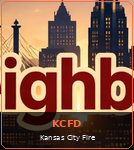
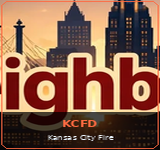
Add files via upload

diff --git a/app/page.tsx b/app/page.tsx
@@ -541,10 +541,10 @@ const scopedPosts = scope==='local'
           </button>
         </div>
         <div className="nkc-mobile-account-row" aria-label="Account controls" style={{backgroundColor:theme.header,borderColor:theme.border}}>
-          <a href="/dms" aria-label="Messages" className="nkc-mobile-account-btn">💬 <span>Messages</span></a>
-          <a href="/notifications" aria-label="Notifications" className="nkc-mobile-account-btn">🔔 <span>Alerts</span></a>
-          <button type="button" onClick={()=>setShowSettings(true)} aria-label="Themes and settings" className="nkc-mobile-account-btn">⚙ <span>Themes</span></button>
-          {!authReady ? <span className="nkc-mobile-account-status">Loading…</span> : profile ? <button type="button" onClick={signOut} className="nkc-mobile-account-btn">↪ <span>Sign out</span></button> : <button type="button" onClick={()=>setShowJoin(true)} className="nkc-mobile-account-btn">👤 <span>Sign in</span></button>}
+          <a href="/dms" aria-label="Messages" className="nkc-mobile-account-btn" style={{backgroundColor:theme.input,color:theme.text,borderColor:theme.accent}}>💬 <span>Messages</span></a>
+          <a href="/notifications" aria-label="Notifications" className="nkc-mobile-account-btn" style={{backgroundColor:theme.input,color:theme.text,borderColor:theme.accent}}>🔔 <span>Alerts</span></a>
+          <button type="button" onClick={()=>setShowSettings(true)} aria-label="Themes and settings" className="nkc-mobile-account-btn" style={{backgroundColor:theme.input,color:theme.text,borderColor:theme.accent}}>⚙ <span>Themes</span></button>
+          {!authReady ? <span className="nkc-mobile-account-status">Loading…</span> : profile ? <button type="button" onClick={signOut} className="nkc-mobile-account-btn" style={{backgroundColor:theme.input,color:theme.text,borderColor:theme.accent}}>↪ <span>Sign out</span></button> : <button type="button" onClick={()=>setShowJoin(true)} className="nkc-mobile-account-btn" style={{backgroundColor:theme.input,color:theme.text,borderColor:theme.accent}}>👤 <span>Sign in</span></button>}
         </div>
         <div className="nkc-mobile-nav" aria-label="Main navigation">
           <div className="nkc-mobile-nav-scroll">

diff --git a/app/globals.css b/app/globals.css
@@ -241,7 +241,7 @@ body { overscroll-behavior-y: none; }
   cursor:pointer;
   -webkit-tap-highlight-color:transparent;
 }
-.nkc-theme-choice img{display:block;width:100%;aspect-ratio:1.05/1;object-fit:cover;object-position:center}
+.nkc-theme-choice img{display:block;width:100%;aspect-ratio:1.05/1;object-fit:fill;object-position:center}
 .nkc-theme-choice:hover{transform:translateY(-1px)}
 .nkc-theme-choice-check{position:absolute;right:7px;top:7px;width:26px;height:26px;border-radius:9999px;display:grid;place-items:center;font-weight:950;font-size:15px;line-height:1;box-shadow:0 4px 12px rgba(0,0,0,.3)}
 .nkc-theme-choice-fallback{aspect-ratio:1.05/1;display:grid;place-items:center;color:#fff;font-size:13px;padding:8px;line-height:1.1}
